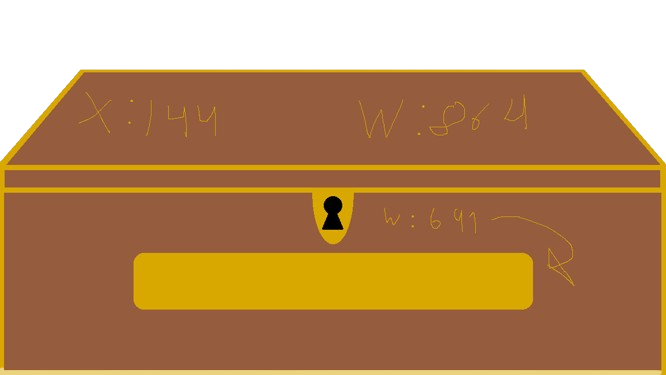
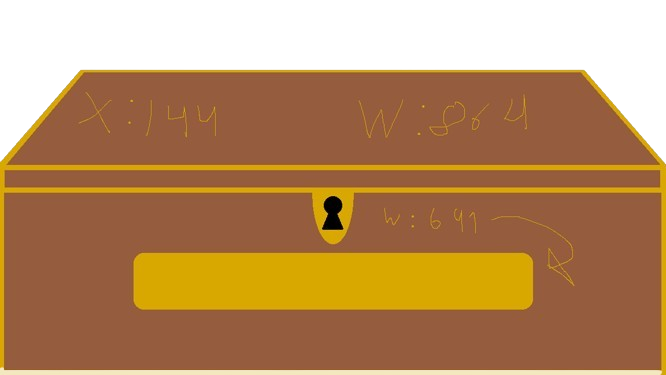
Fixed menu-btn background glitch, fixed projectr structure

Changed region(s): [[0.0, 0.968, 1.0, 1.0], [0.991, 0.4107, 1.0, 0.44], [0.1201, 0.176, 0.1502, 0.2053]]

diff --git a/src/gui/start_menu/InfoPanel.java b/src/gui/start_menu/InfoPanel.java
@@ -1,0 +1,40 @@
+package gui.start_menu;
+
+import java.awt.Color;
+import java.awt.Dimension;
+import java.awt.Graphics;
+import java.awt.image.BufferedImage;
+import java.io.IOException;
+
+import javax.imageio.ImageIO;
+import javax.swing.BorderFactory;
+import javax.swing.JPanel;
+import javax.swing.border.Border;
+
+public class InfoPanel extends JPanel
+{
+	BufferedImage image;
+	String imagePath = "/res/images/start_menu/info-panel-transp.png";
+	
+	public InfoPanel()
+	{
+		super();
+		setOpaque(false);
+		try
+		{
+			image = ImageIO.read(getClass().getResourceAsStream(imagePath));
+		} catch(IOException ioe)
+		{
+			ioe.printStackTrace();
+		}
+	}
+	
+	@Override
+	public void paintComponent(Graphics g)
+	{
+		super.paintComponent(g);
+		
+		Dimension d = super.getSize();
+		g.drawImage(image, 0, 0, d.width, d.height, null);
+	}
+}

diff --git a/src/gui/start_menu/StartMenuPanel.java b/src/gui/start_menu/StartMenuPanel.java
@@ -1,3 +1,4 @@
+
 package gui.start_menu;
 
 import java.awt.Color;
@@ -15,7 +16,7 @@ import javax.swing.JOptionPane;
 import javax.swing.JPanel;
 
 import gui.Frame;
-import handlers.Chest;
+import handlers.ChestHandler;
 import handlers.DirectoryHandler;
 import handlers.MazeHandler;
 import main.Definitions;
@@ -30,7 +31,6 @@ public class StartMenuPanel extends JPanel
 	
 	final static GridLayout grid1 = new GridLayout(1, 3);
 	final static GridLayout grid2 = new GridLayout(5, 1);
-	final static Color transparent = new Color(255, 255, 255, 1);
 	
 	int WIDTH, HEIGHT;
 	boolean contAvailable;
@@ -59,12 +59,13 @@ public class StartMenuPanel extends JPanel
 			e.printStackTrace();
 		}
 		setLayout(grid1);
+		setOpaque(false);
 		
 		addFillerPanel(this);
 //		addFillerPanel(this);
 		JPanel menuBtnHolder = new JPanel();
 		menuBtnHolder.setLayout(grid2);
-		menuBtnHolder.setBackground(transparent);
+		menuBtnHolder.setOpaque(false);
 		add(menuBtnHolder);
 			addFillerPanel(menuBtnHolder);
 			
@@ -80,9 +81,8 @@ public class StartMenuPanel extends JPanel
 			exitBtn.setFocusable(false);
 			menuBtnHolder.add(exitBtn);
 			
-			JPanel info = new JPanel();
-			info.setBackground(getRngColor());
-			menuBtnHolder.add(info);
+			InfoPanel infoPanel = new InfoPanel();
+			menuBtnHolder.add(infoPanel);
 		addFillerPanel(this);
 //		addFillerPanel(this);
 		
@@ -123,20 +123,13 @@ public class StartMenuPanel extends JPanel
 		 */
 		directoryHandler = new DirectoryHandler(defs);
 		parent.getContentPane().remove(this);
-		if(!contAvailable)
-		{
-			directoryHandler.createFolder();
-			for(String file: defs.filenameArray)
-				directoryHandler.createFile(file);
-		}
-		else
-			directoryHandler.restoreGPNFs();
+		directoryHandler.restoreGPNFs();
 		
 		// Gen. maze
 		new MazeHandler(defs).genMaze();
 		
-		// Gen chests
-		Chest[] chestArray = new Chest(0, 0, 0, "", "").getChestArray(defs);
+		// Gen. chests
+		new ChestHandler(0, 0, 0, "", "").getChestArray(defs);
 		
 		int dim = defs.DIM;
 		
@@ -189,16 +182,14 @@ public class StartMenuPanel extends JPanel
 	private void addFillerPanel(JPanel parent)
 	{
 		JPanel fillerPanel = new JPanel();
-		fillerPanel.setBackground(transparent);
+		fillerPanel.setOpaque(false);
 		parent.add(fillerPanel);
 	}
 
 	@Override
 	public void paintComponent(Graphics g)
 	{
-		super.paintComponent(g);
-		Graphics2D g_2d = (Graphics2D) g;
-		
+		super.paintComponent(g);		
 		g.drawImage(backgroundImg, 0, 0, WIDTH, HEIGHT, this);
 	}
 }

diff --git a/src/gui/start_menu/contBtn.java b/src/gui/start_menu/contBtn.java
@@ -4,6 +4,7 @@ import java.awt.Color;
 import java.awt.Dimension;
 import java.awt.Graphics;
 import java.awt.Graphics2D;
+import java.awt.Point;
 import java.awt.event.MouseAdapter;
 import java.awt.event.MouseEvent;
 import java.awt.image.BufferedImage;
@@ -12,6 +13,7 @@ import java.io.IOException;
 import javax.imageio.ImageIO;
 import javax.swing.BorderFactory;
 import javax.swing.JButton;
+import javax.swing.JPanel;
 import javax.swing.border.Border;
 
 import gui.Frame;
@@ -19,23 +21,24 @@ import main.Definitions;
 
 public class ContBtn extends JButton
 {
-	Frame parent;
 	Definitions defs;
 
 	BufferedImage image, chestClosed, chestOpened;
-	String  chestClosedPath = "/res/images/start_menu/cont-chest-closed-transp.png",
-			chestOpenedPath = "/res/images/start_menu/cont-chest-open-transp.png";
+	String chestClosedPath = "/res/images/start_menu/cont-chest-closed-transp.png",
+//		   chestOpenedPath = "/res/images/start_menu/cont-chest-open-transp.png";
+		   chestOpenedPath = "/gui/start_menu/chest-open3.png";
 	
 	 // (width, height) = (384, 216)
 	
 	public ContBtn(boolean contAvailable)
 	{
 		super();
-		setText("Continue");
-//		setBackground(new Color(255, 255, 255, 1));
-//		setForeground(Color.BLACK);
-		Border border = BorderFactory.createMatteBorder(0, 0, 0, 0, Color.WHITE);
-		setBorder(border);
+		setBorder(null);
+		
+		setOpaque(false);
+		setContentAreaFilled(false);
+		setBorderPainted(false);
+//		setFocusPainted(false);
 		
 		try
 		{
@@ -54,10 +57,12 @@ public class ContBtn extends JButton
 				public void mouseEntered(MouseEvent enter)
 				{
 					image = chestOpened;
+					repaint();
 				}
 				public void mouseExited(MouseEvent exit)
 				{
-					image = chestClosed;				
+					image = chestClosed;
+					repaint();
 				}
 			});
 		}
@@ -68,8 +73,7 @@ public class ContBtn extends JButton
 	{
 		super.paintComponent(g);
 		
-		Dimension d = this.getSize();
-		Graphics2D g_2d = (Graphics2D) g;
-		g_2d.drawImage(image, 0, 0, d.width, d.height, this);
+		Dimension d = getSize();
+		g.drawImage(image, 0, 0, d.width, d.height, null);
 	}
 }

diff --git a/src/main/Main.java b/src/main/Main.java
@@ -15,23 +15,8 @@ public class Main
 		// Check if GPNFs exists
 		DirectoryHandler directoryHandler = new DirectoryHandler(defs);
 		boolean GPNFsExists = directoryHandler.checkGPNFsExistence();
-		for(int i = 0; i < 16; i++)
-			System.out.println(i / 4);
 		boolean contAvailable = GPNFsExists;
 		
-		// Create folder and fill with empty files if non-existent
-		/*
-		if(!GPNFsExists)
-		{
-			directoryHandler.createFolder();
-			for(String filename: defs.filenameArray)
-				directoryHandler.createFile(filename);
-
-			new MazeHandler(defs).genMaze();
-			contAvailable = false;
-		}
-		*/
-		
-		Frame frame = new Frame(defs, contAvailable);
+		/*Frame frame = */new Frame(defs, contAvailable);
 	}
 }

diff --git a/src/gui/start_menu/ExitBtn.java b/src/gui/start_menu/ExitBtn.java
@@ -18,12 +18,13 @@ import javax.swing.border.Border;
 public class ExitBtn extends JButton
 {
 	BufferedImage image, chestClosed, chestOpened;
+	String chestClosedPath = "/res/images/start_menu/cont-chest-closed-transp.png",
+		   chestOpenedPath = "/res/images/start_menu/cont-chest-open-transp.png";
 	public ExitBtn()
 	{
 		super();
-		setText("New Game");
-		setBackground(Color.RED);
-		setForeground(Color.BLACK);
+		setOpaque(false);
+		setBorderPainted(false);
 		addMouseListener(new MouseAdapter()
 		{
 			public void mouseEntered(MouseEvent enter)
@@ -40,8 +41,8 @@ public class ExitBtn extends JButton
 		
 		try
 		{
-			chestClosed = ImageIO.read(new File("C:/Users/albin/eclipse-workspace/Astella/src/gui/start_menu/chest-closed2.png"));
-			chestOpened = ImageIO.read(new File("C:/Users/albin/eclipse-workspace/Astella/src/gui/start_menu/chest-open2-txt.png"));
+			chestClosed = ImageIO.read(getClass().getResourceAsStream(chestClosedPath));
+			chestOpened = ImageIO.read(getClass().getResourceAsStream(chestOpenedPath));
 			
 			image = chestClosed;
 		} catch(IOException e)

diff --git a/src/handlers/DirectoryHandler.java b/src/handlers/DirectoryHandler.java
@@ -22,6 +22,12 @@ public class DirectoryHandler
 		this.defs = defs;
 	}
 	
+	public boolean checkFileExistence(String filename)
+	{
+		
+		return false;
+	}
+	
 	public boolean checkGPNFsExistence()
 	{		
 		Path directory = Paths.get(defs.directory, defs.foldername_GPNFs);
@@ -30,6 +36,7 @@ public class DirectoryHandler
 		{
 			for(Path GPNFsContent: dirStream)
 				foundFiles++;
+			
 			if(foundFiles == defs.filenameArray.length)
 				return true;
 			return false;
@@ -84,11 +91,9 @@ public class DirectoryHandler
 		}
 		
 		createFolder();
-		for(String filename: defs.filenameArray)
-			createFile(filename);
 	}
 	
-	public void writeToChestFile(){}
+	public void writeToChestFile(ChestHandler[] chestArray){}
 	public void writeToPlayerFile(){}
 	public void writeToMonsterFile(){}
 	public void writeToMazeFile(int[][] maze){}

diff --git a/src/main/Definitions.java b/src/main/Definitions.java
@@ -1,8 +1,13 @@
 package main;
 
+import handlers.ChestHandler;
+import player.Inventory;
+
 public class Definitions
 {
 	public int[][] maze;
+	public ChestHandler[] chests;
+	public Inventory[] inventory;
 	
 	public int WIDTH;
 	public int HEIGHT;
@@ -69,6 +74,11 @@ public class Definitions
 				  		   		 "notebook-7",
 				  		   		 "notebook-8",
 						  		 "notebook-9"};
+	
+	public void setChests(ChestHandler[] chests)
+	{
+		this.chests = chests;
+	}
 	
 	public void setDirPath(String directory)
 	{

diff --git a/src/handlers/MazeHandler.java b/src/handlers/MazeHandler.java
@@ -105,6 +105,7 @@ public class MazeHandler
 		}
 		DirectoryHandler directoryHandler = new DirectoryHandler(defs);
 		
+		directoryHandler.createFile(defs.filename_maze);
 		directoryHandler.writeToMazeFile(maze);
 		defs.setMaze(maze);
 		